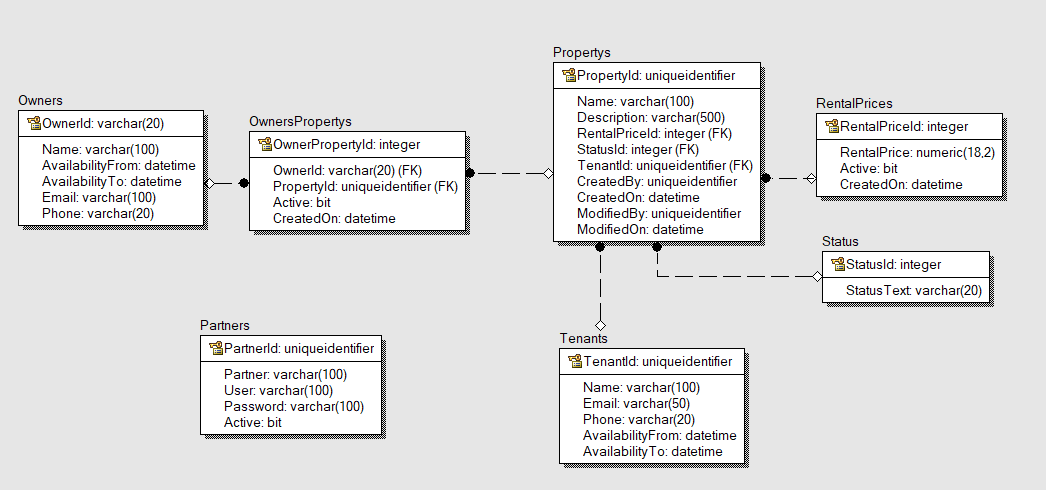
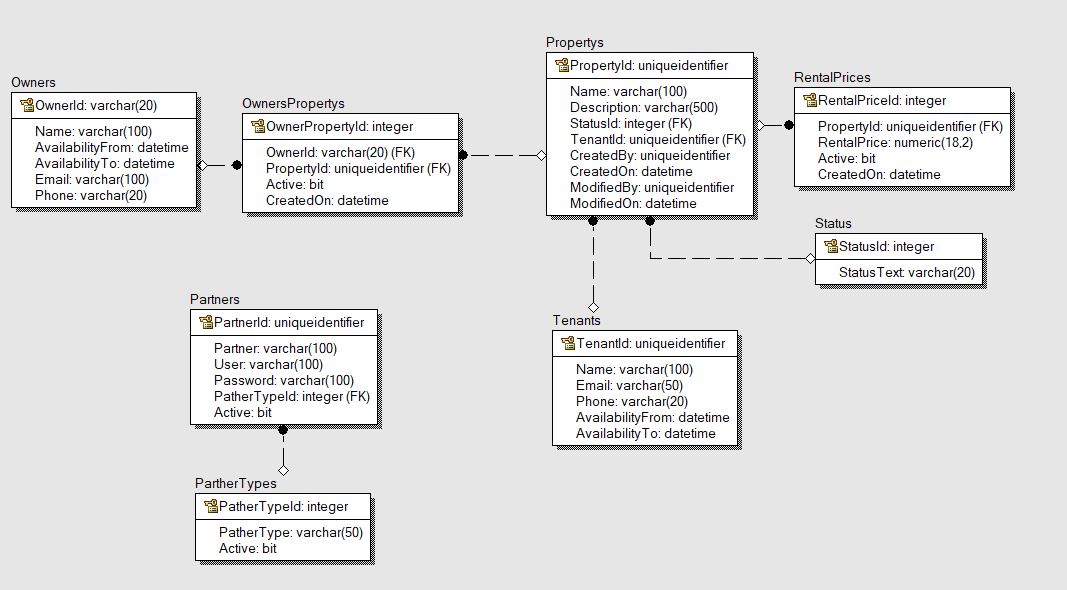
Se actualizo la base para crear tipos de partners

diff --git a/Models/Propertys.cs b/Models/Propertys.cs
@@ -32,9 +32,16 @@ namespace Homie_backend_test.Models
         public int StatusId { get; set; }
         public Guid? TenantId { get; set; }
 
+        [Newtonsoft.Json.JsonProperty(NullValueHandling = Newtonsoft.Json.NullValueHandling.Ignore)]
         public RentalPrices RentalPrice { get; set; }
+
+        [Newtonsoft.Json.JsonProperty(NullValueHandling = Newtonsoft.Json.NullValueHandling.Ignore)]
         public Status Status { get; set; }
+
+        [Newtonsoft.Json.JsonProperty(NullValueHandling = Newtonsoft.Json.NullValueHandling.Ignore)]
         public Tenants Tenant { get; set; }
+
+        [Newtonsoft.Json.JsonProperty(NullValueHandling = Newtonsoft.Json.NullValueHandling.Ignore)]
         [Newtonsoft.Json.JsonIgnore]
         public ICollection<OwnersPropertys> OwnersPropertys { get; set; }
 
